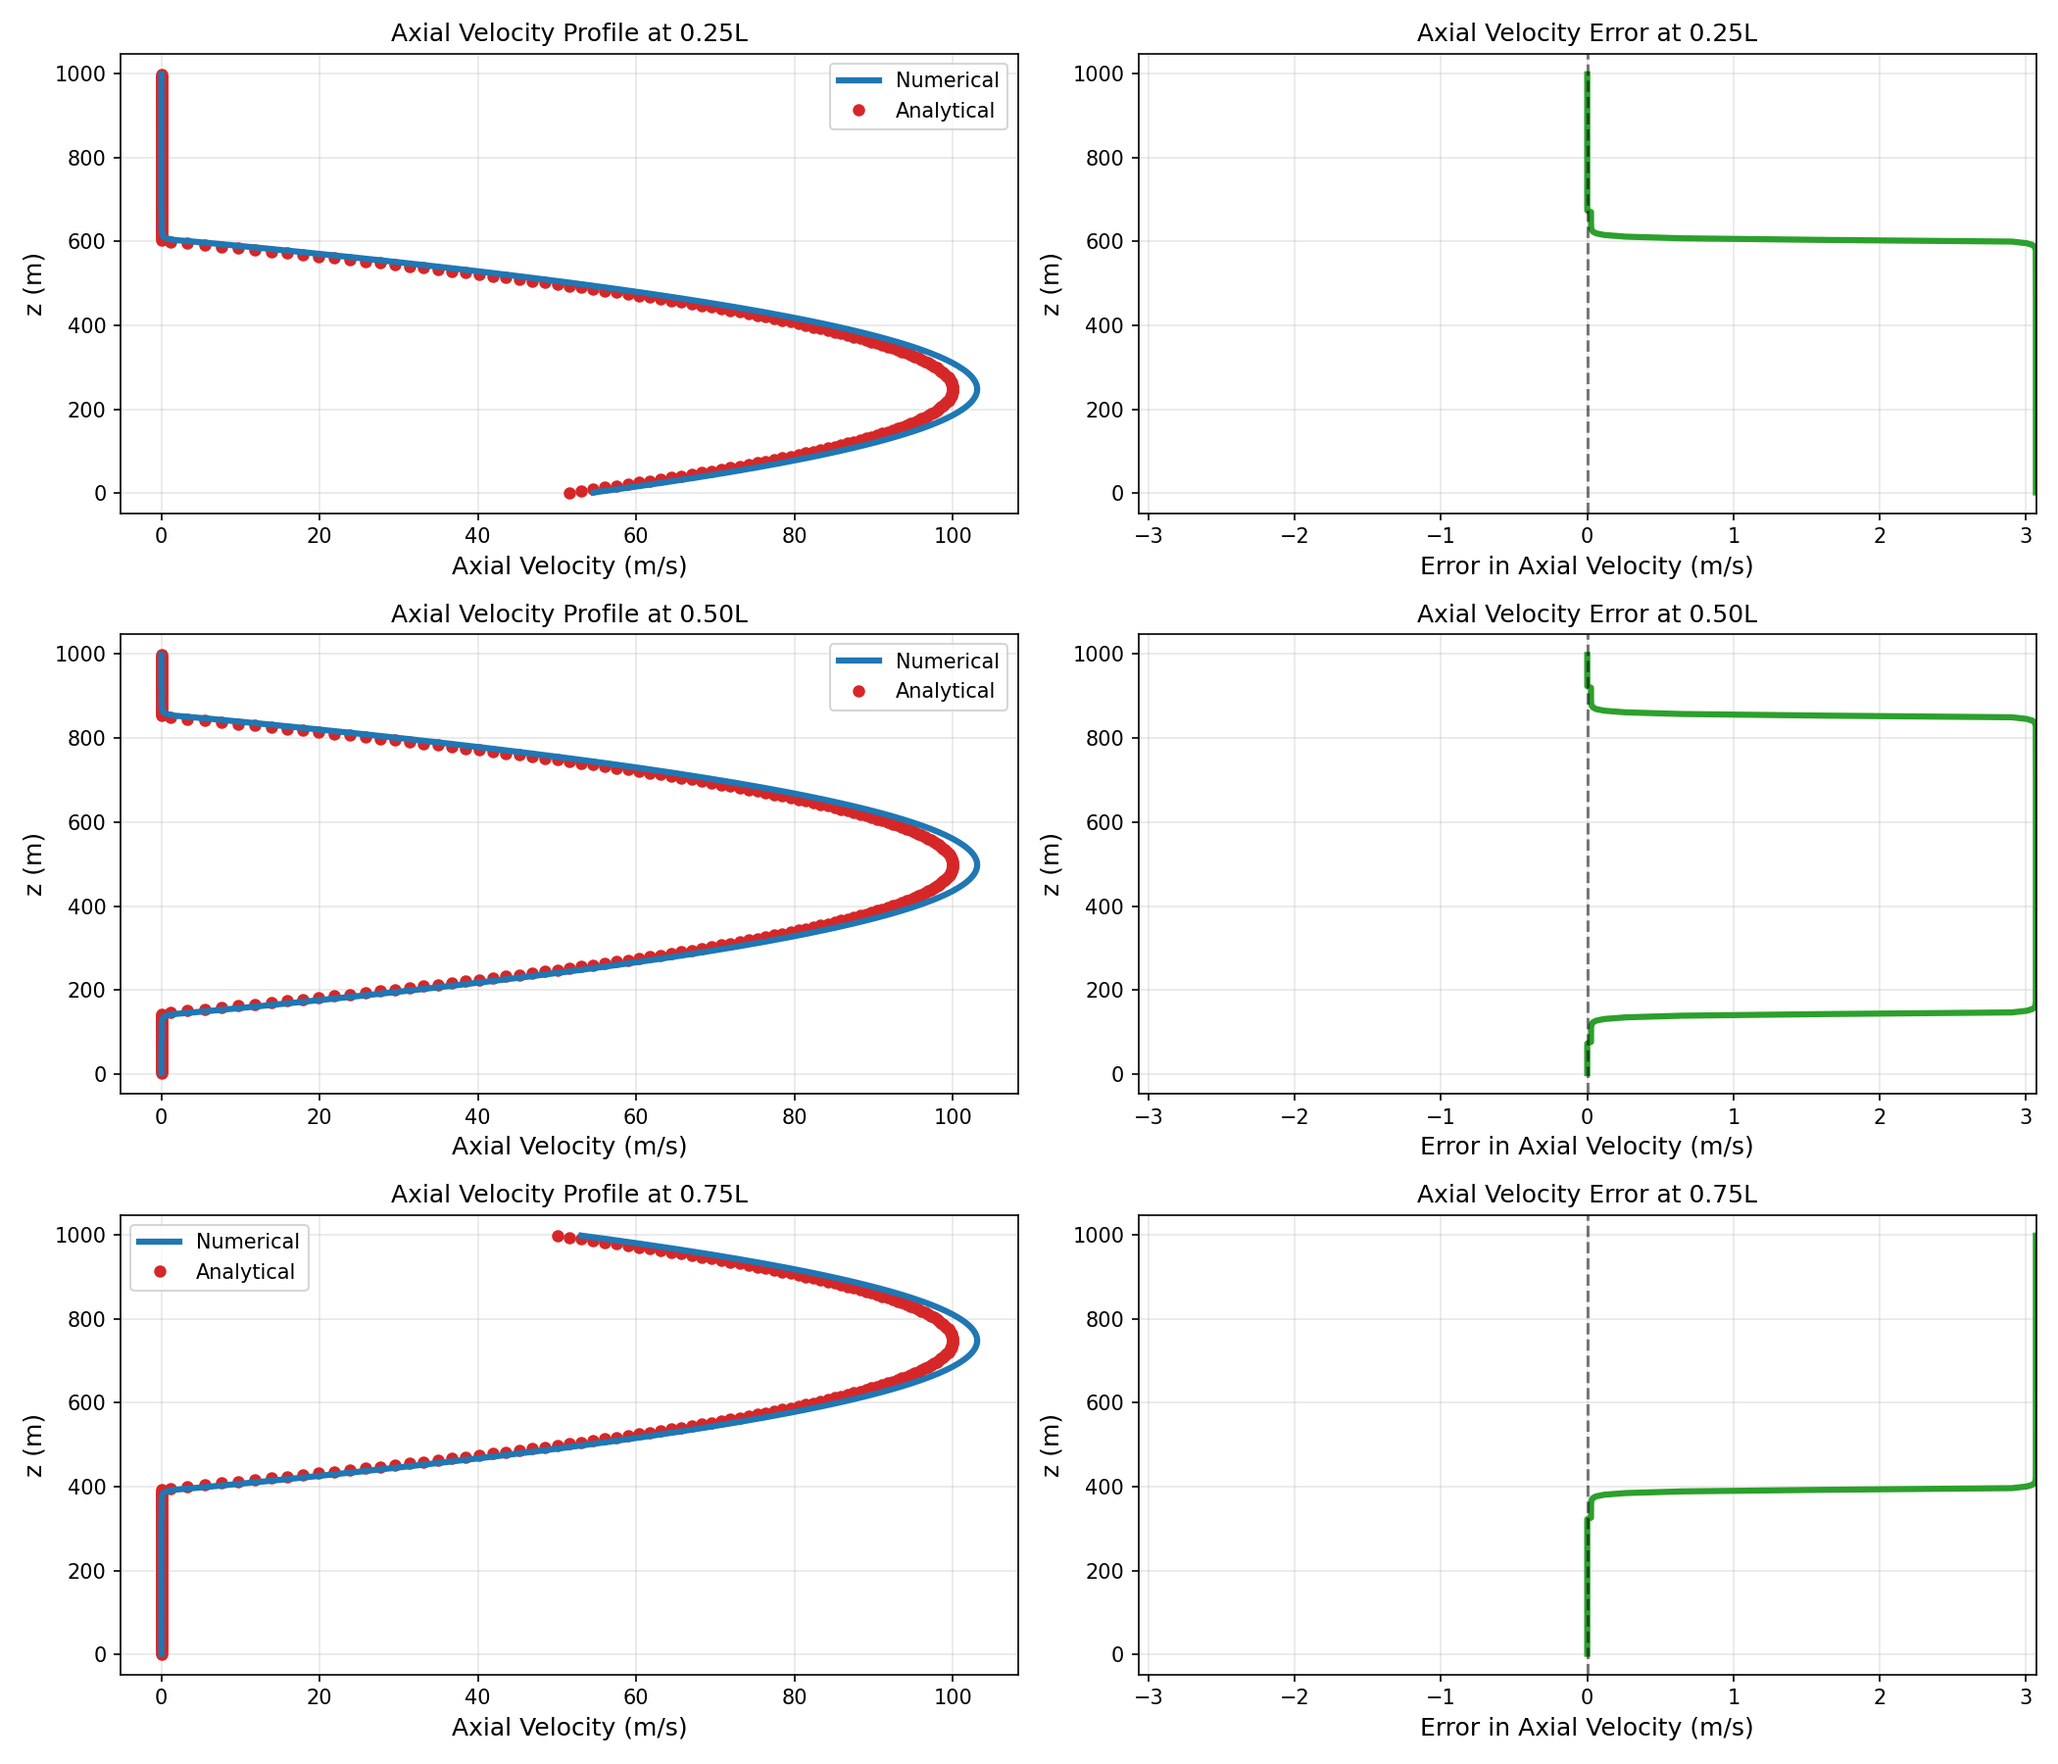
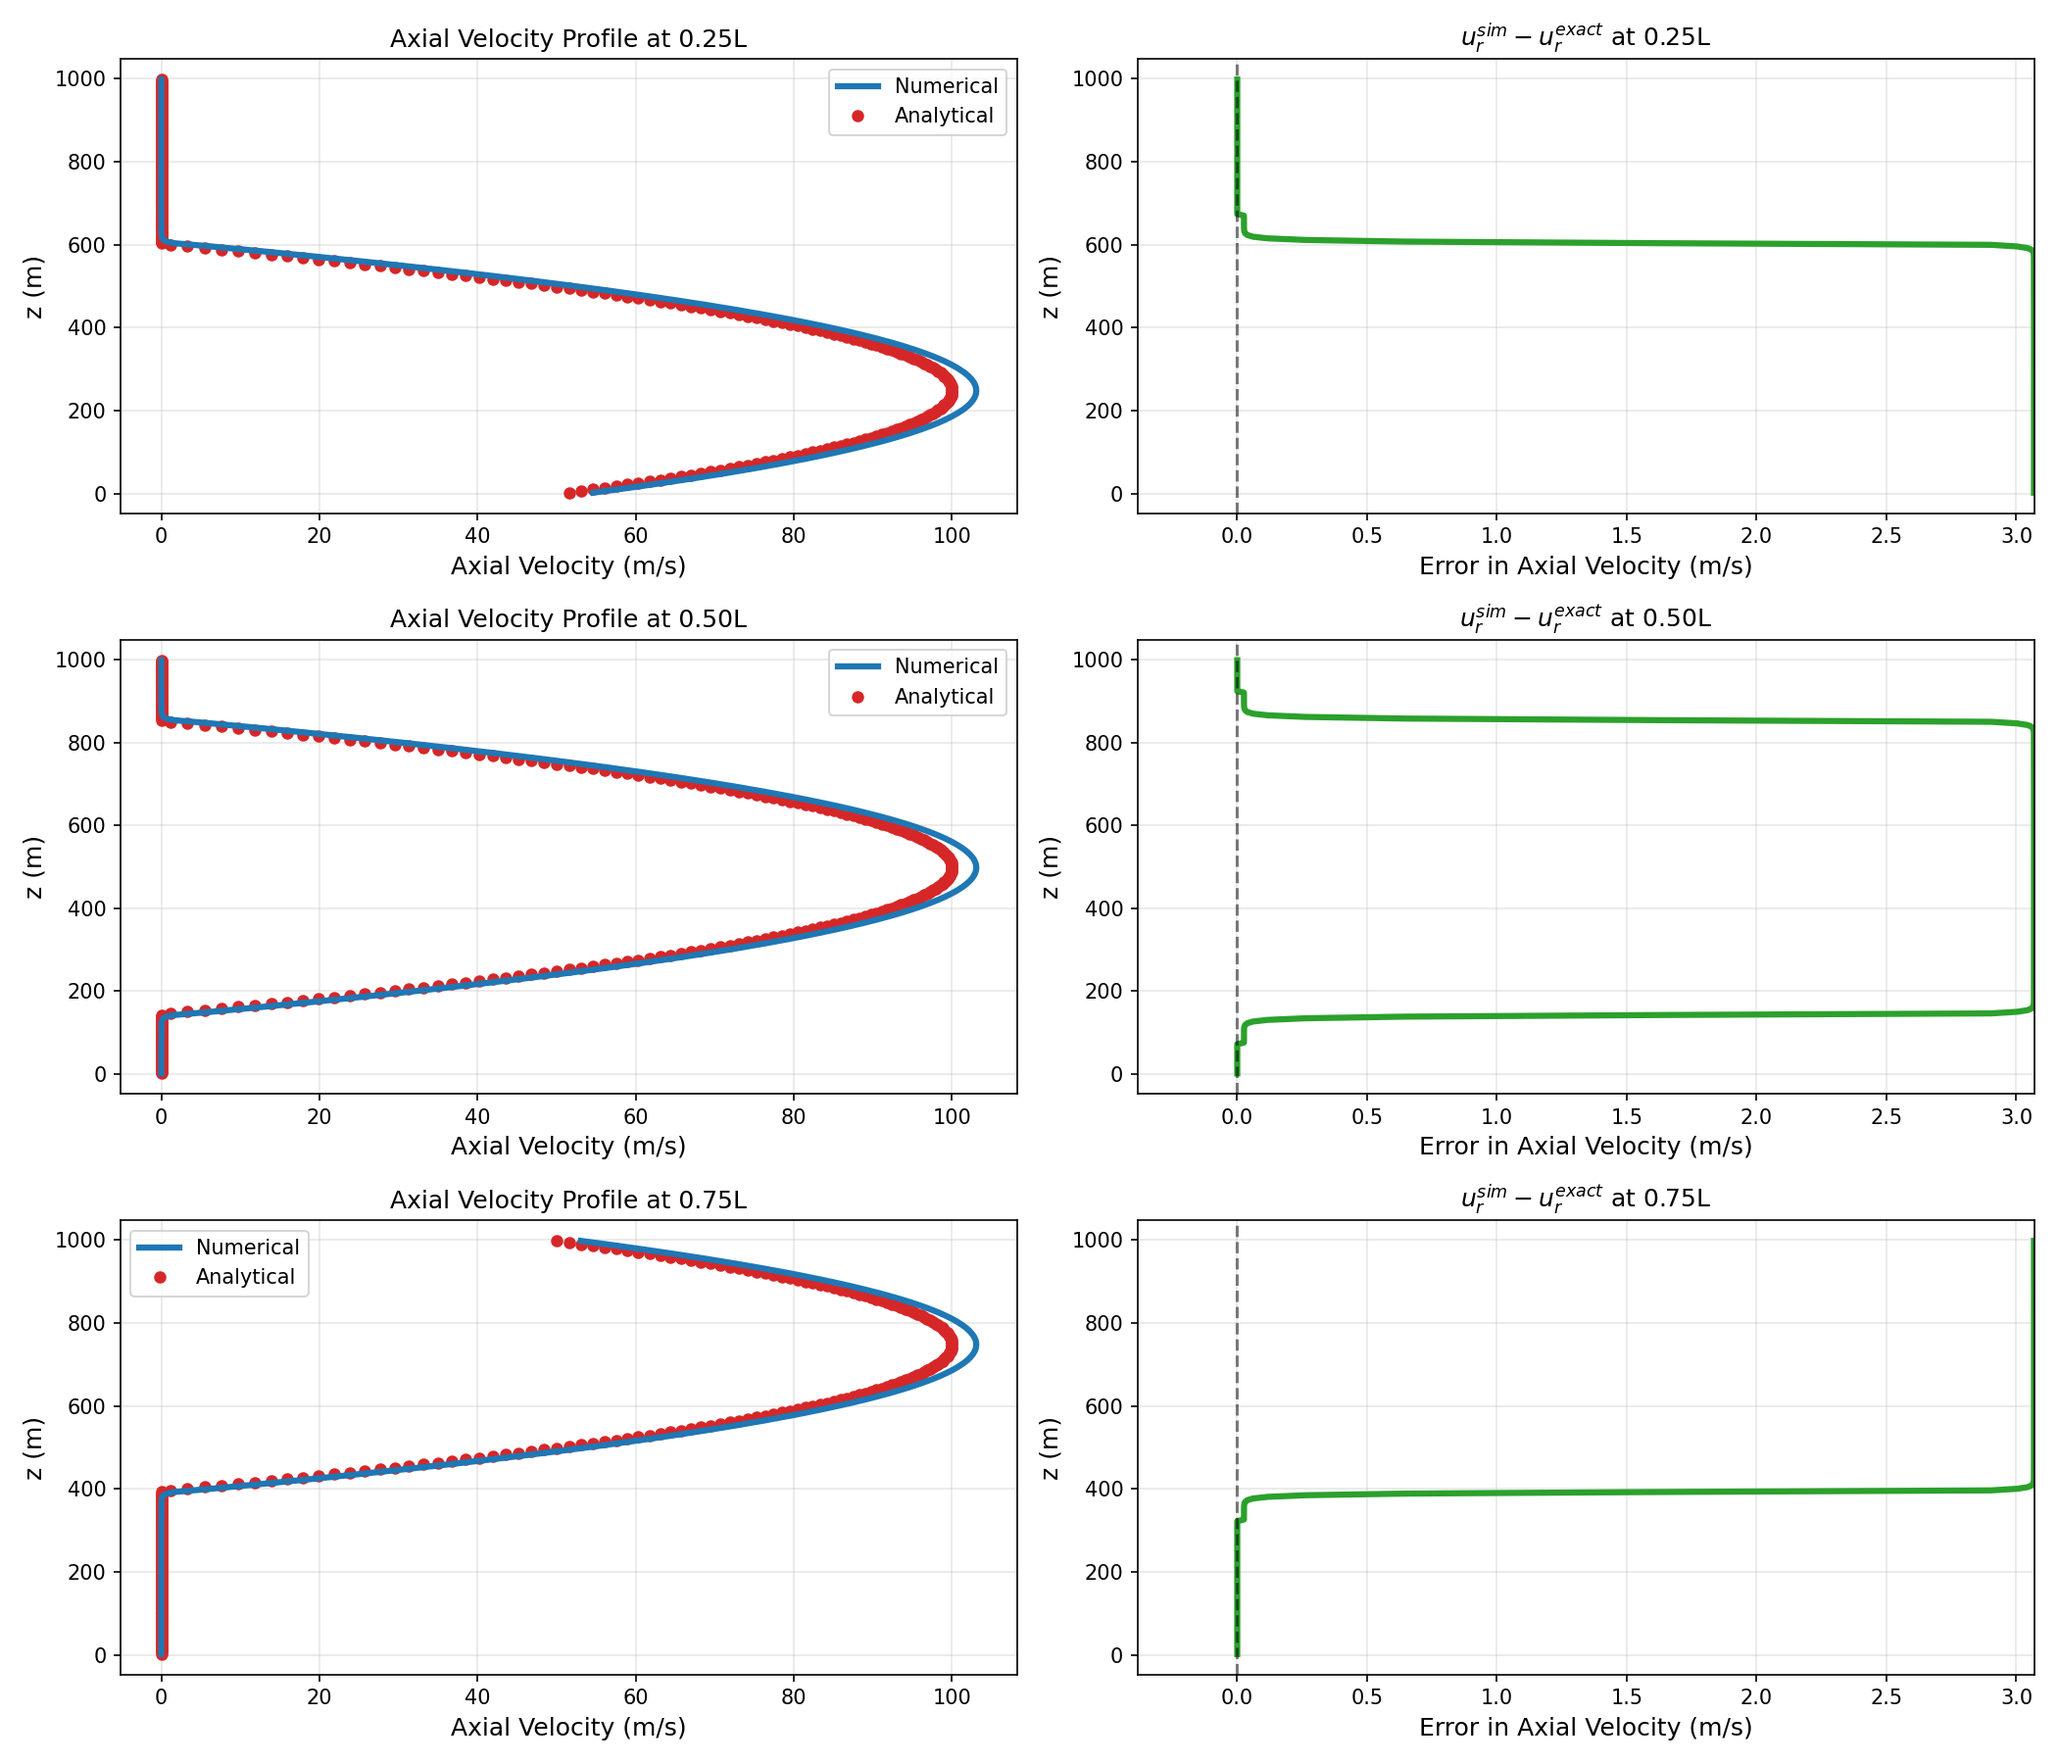
Update post_process.py for --no_ib

diff --git a/validation/single_phase_laminar_slanted/python/post_process.py b/validation/single_phase_laminar_slanted/python/post_process.py
@@ -358,7 +358,11 @@ z_lower = z_s + x_boundary_full * np.tan(theta_rad) - perp_offset * np.cos(theta
 z_upper = z_s + x_boundary_full * np.tan(theta_rad) + perp_offset * np.cos(theta_rad)
 
 # Draw immersed boundary walls in deeppink
-ax.plot(x_boundary_full, z_lower, color='deeppink', linewidth=5, label='Immersed boundary')
+if args.no_ib:
+    wall_lab = 'No Slip Wall'
+else:
+    wall_lab = 'Immersed Boundary'
+ax.plot(x_boundary_full, z_lower, color='deeppink', linewidth=5, label=wall_lab)
 ax.plot(x_boundary_full, z_upper, color='deeppink', linewidth=5)
 
 # Fill regions outside the channel with grey (gainsboro)
@@ -490,18 +494,18 @@ if len(cell_size_array) > 1:
     mean_error_max = np.mean(u_axial_error_max)
     mean_cell_size = np.mean(cell_size_array)
     
-    # O(h) reference: error ~ C * h
-    C_slope1 = 0.85 * mean_error_max / (mean_cell_size ** 1.0)
-    ax.loglog(cell_trend, C_slope1 * cell_trend**1.0, ':', alpha=0.6, linewidth=2, color='gray', label='Slope: 1')
-    
-    # O(h^1/2) reference: error ~ C * h^0.5
-    C_slope05 = 1.25 * mean_error_max / (mean_cell_size ** 0.5)
-    ax.loglog(cell_trend, C_slope05 * cell_trend**0.5, '-.', alpha=0.6, linewidth=2, color='gray', label='Slope: 0.5')
-    
-    # O(h^2) reference for no-ib cases: error ~ C * h^2
-    if args.no_ib:
+    if not args.no_ib:
+        # O(h^1/2) reference: error ~ C * h^0.5
+        C_slope05 = 1.25 * mean_error_max / (mean_cell_size ** 0.5)
+        ax.loglog(cell_trend, C_slope05 * cell_trend**0.5, ':', linewidth=2, color='black', label='Slope: 0.5')
+
+        # O(h) reference: error ~ C * h
+        C_slope1 = 0.85 * mean_error_max / (mean_cell_size ** 1.0)
+        ax.loglog(cell_trend, C_slope1 * cell_trend**1.0, '-.', linewidth=2, color='black', label='Slope: 1')
+    else:
+        # O(h^2) reference for no-ib cases: error ~ C * h^2
         C_slope2 = 1.5 * mean_error_max / (mean_cell_size ** 2.0)
-        ax.loglog(cell_trend, C_slope2 * cell_trend**2.0, '--', alpha=0.6, linewidth=2, color='gray', label='Slope: 2')
+        ax.loglog(cell_trend, C_slope2 * cell_trend**2.0, '--', linewidth=2, color='black', label='Slope: 2')
 
 ax.set_xlabel('Cell Size (h)', fontsize=14)
 ax.set_ylabel('Maximum Error', fontsize=14)
@@ -644,8 +648,8 @@ for row_idx, (i_loc, label) in enumerate(zip(i_locations, profile_labels)):
     ax.axvline(x=0, color='k', linestyle='--', alpha=0.5)
     ax.set_xlabel('Error in Axial Velocity (m/s)', fontsize=12)
     ax.set_ylabel('z (m)', fontsize=12)
-    ax.set_title(f'Axial Velocity Error at {label}', fontsize=12)
-    ax.set_xlim(-max_error_all, max_error_all)
+    ax.set_title(r'$u_r^{sim} - u_r^{exact}$ at ' + label, fontsize=12)
+    ax.set_xlim(-max_error_all/8, max_error_all)
     ax.grid(True, alpha=0.3)
 
 plt.tight_layout()
